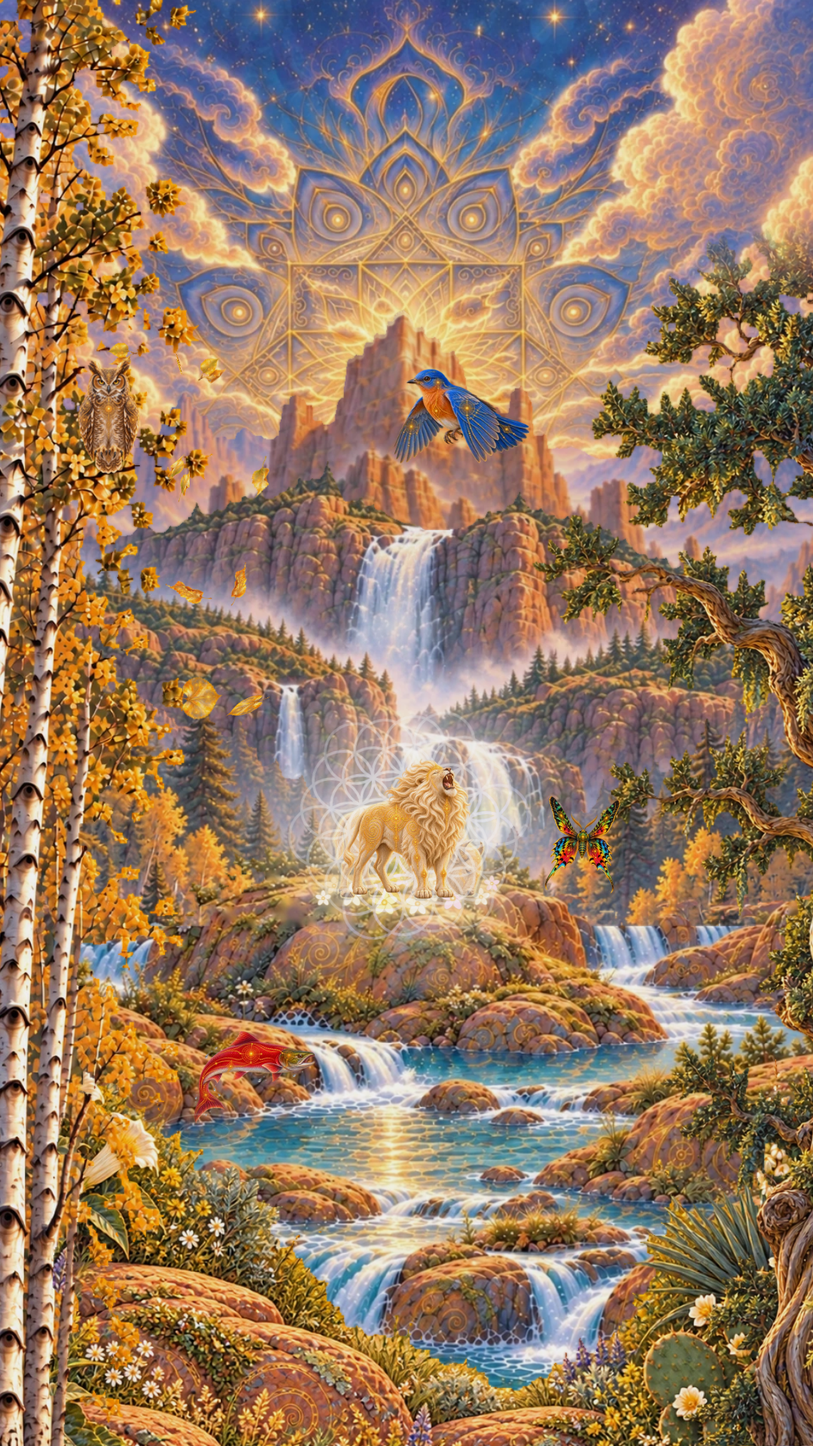
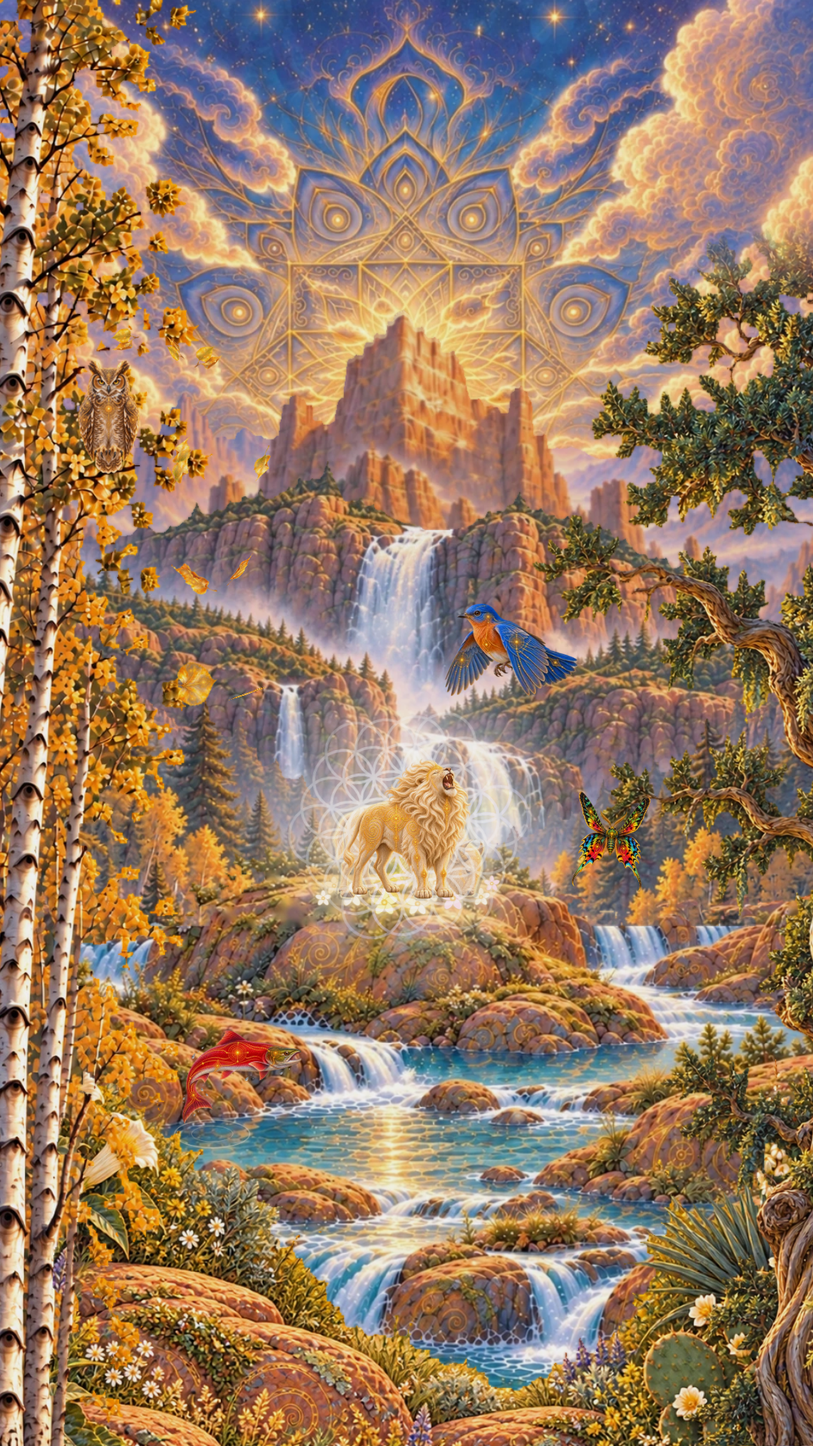
Bluebird back on the juniper's lower branch; the lolo's cocoon on the lowest branch, over the water; start frame re-rendered
Claude-Session: https://claude.ai/code/session_01X5u2D9a4RRbbCvwnE6RQKF

diff --git a/frontend/src/components/site/journeyEngine.js b/frontend/src/components/site/journeyEngine.js
@@ -120,11 +120,11 @@ const LEAVES = [
   [4, "mountains", 0.35, 46, 700, 900, 3.3], [3, "mountains", 0.35, 42, 330, 200, 5.1],
 ];
 const OWL = { x: 166, y: 482, w: 71 };   // on the aspens' branch, halfway up the grove (aspens layer coordinates)
-const PERCH = { x: 572, y: 384, w: 106 }; // the bluebird, up on the juniper's high branch
+const PERCH = { x: 580, y: 627, w: 106 }; // the bluebird, on the juniper's lower branch (where she began)
 // The lolo (the Madagascan sunset moth, a totem): it begins as a cocoon hanging from the juniper's
 // upper branch; tapped, the cocoon pulses gold and splits, the moth unfolds its wings as light sweeps
 // across them, then settles on the branch (juniper coordinates). After that a tap sends it fluttering.
-const COCOON_AT = [541, 661], COCOON_W = 120;   // hanging from the juniper's lower limb
+const COCOON_AT = [583, 1025], COCOON_W = 120;   // hanging from the juniper's lowest branch, over the water
 const BUTTERFLY_FLY_S = 9, HATCH_S = [1.3, 2.4];   // [unfolding, gliding down to the water]
 // where Burnell's big butterfly used to wander, over the water (juniper coordinates), and its rest
 // on the cactus flower once the lion forms (the roar sends it up from there)
